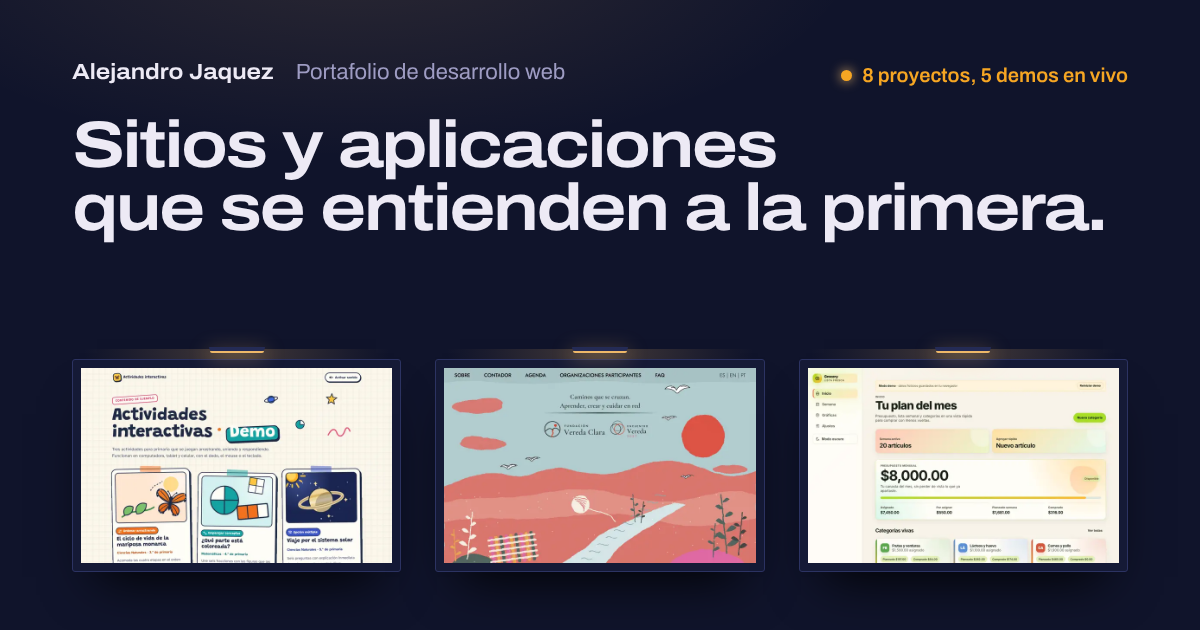
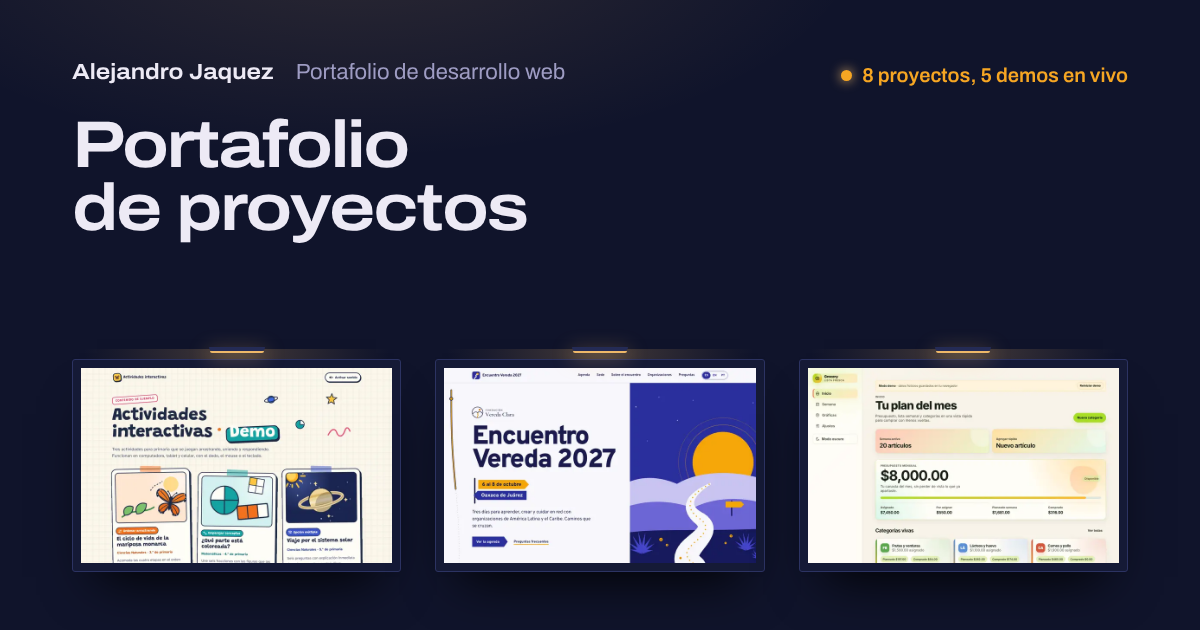
Cambiar el titular del hero a «Portafolio de proyectos»
Claude-Session: https://claude.ai/code/session_014eKX3hkn2t2oTtgAXqBdKC

Changed region(s): [[0.0617, 0.181, 0.925, 0.3921], [0.37, 0.573, 0.6475, 0.9048]]

diff --git a/src/i18n/en.ts b/src/i18n/en.ts
@@ -30,9 +30,9 @@ const en: Translations = {
   },
   hero: {
     kicker: 'Desarrollo web · México',
-    titleLead: 'Sitios y aplicaciones',
-    titleAccent: 'que se entienden',
-    titleTail: 'a la primera.',
+    titleLead: 'Portafolio',
+    titleAccent: 'de proyectos',
+    titleTail: '',
     lead:
       'Construyo páginas, sistemas y actividades interactivas pensadas para las personas que los van a usar: claros, rápidos y que funcionan igual de bien en el teléfono que en la computadora.',
     ctaProjects: 'Ver proyectos',

diff --git a/src/i18n/es.ts b/src/i18n/es.ts
@@ -29,9 +29,9 @@ const es = {
   },
   hero: {
     kicker: 'Desarrollo web · México',
-    titleLead: 'Sitios y aplicaciones',
-    titleAccent: 'que se entienden',
-    titleTail: 'a la primera.',
+    titleLead: 'Portafolio',
+    titleAccent: 'de proyectos',
+    titleTail: '',
     lead:
       'Construyo páginas, sistemas y actividades interactivas pensadas para las personas que los van a usar: claros, rápidos y que funcionan igual de bien en el teléfono que en la computadora.',
     ctaProjects: 'Ver proyectos',
